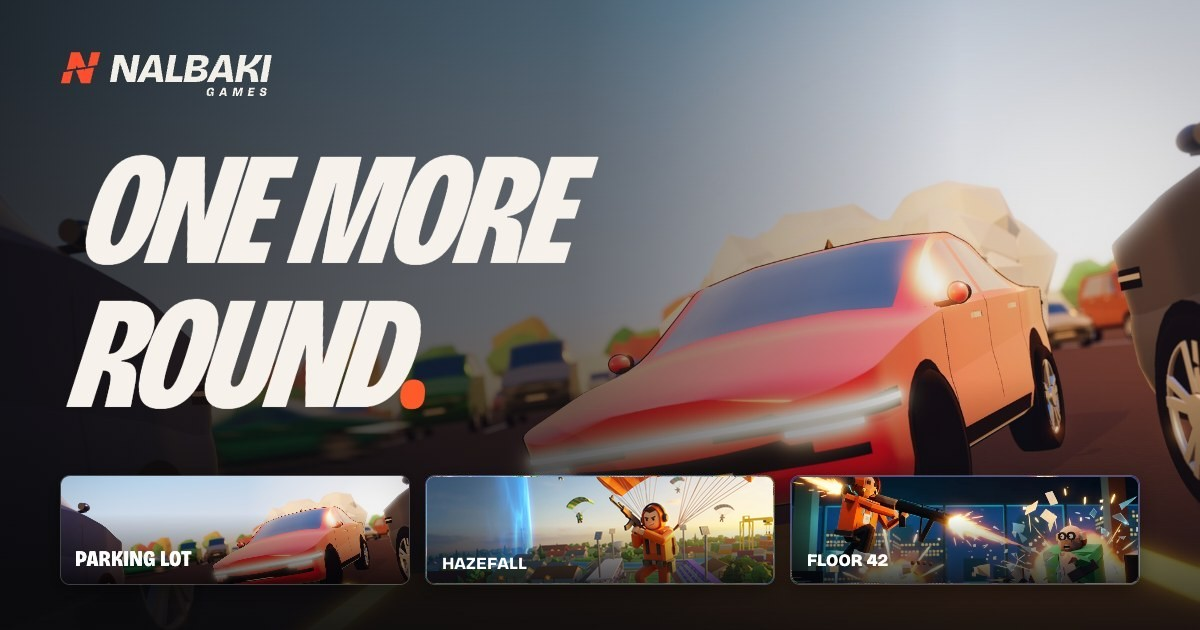
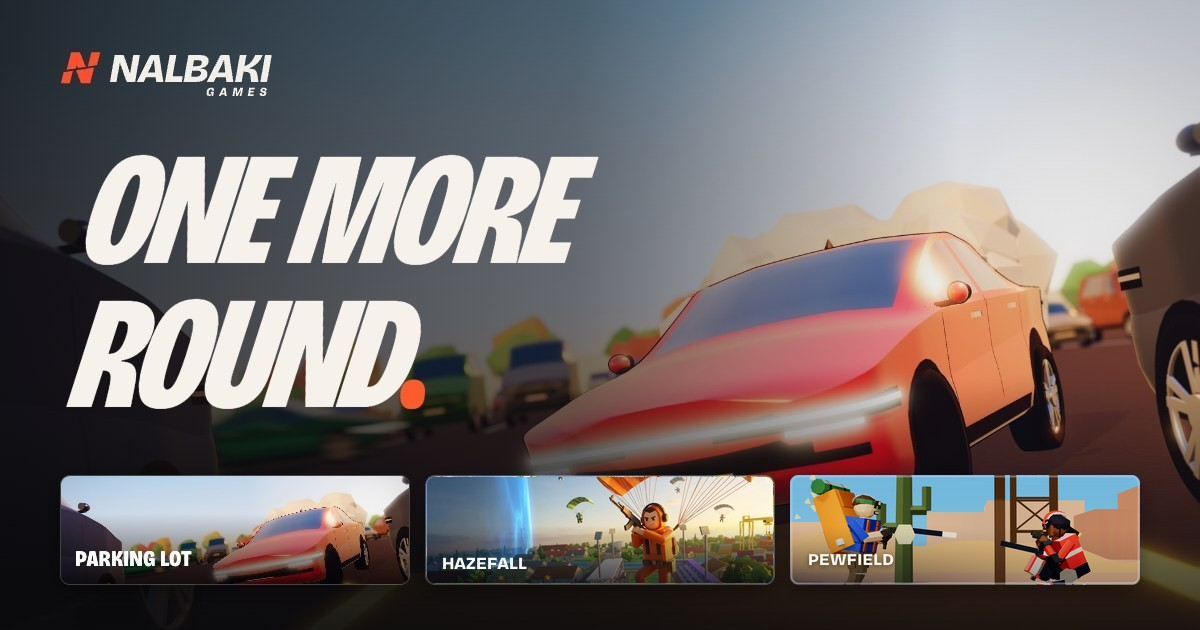
Studio share image: Pewfield tile replaces Floor 42
assets/og.jpg keeps the same layout; the third tile now shows TAVO and
BRIX from the Pewfield key art with a PEWFIELD label. The 11 og:image:alt
lines now read "...Parking Lot, Hazefall and Pewfield" (growth R-A5).

Changed region(s): [[0.6475, 0.754, 0.9558, 0.9349]]

diff --git a/404.html b/404.html
@@ -15,7 +15,7 @@
     <meta property="og:image" content="https://nalbakigames.com/assets/og.jpg" />
     <meta property="og:image:width" content="1200" />
     <meta property="og:image:height" content="630" />
-    <meta property="og:image:alt" content="Nalbaki Games logo over key art from Parking Lot, Hazefall and Floor 42" />
+    <meta property="og:image:alt" content="Nalbaki Games logo over key art from Parking Lot, Hazefall and Pewfield" />
     <meta name="twitter:card" content="summary_large_image" />
     <link rel="icon" href="/favicon.ico" sizes="any" />
     <link rel="icon" href="/assets/favicon-32.png" sizes="32x32" type="image/png" />

diff --git a/about.html b/about.html
@@ -15,7 +15,7 @@
     <meta property="og:image" content="https://nalbakigames.com/assets/og.jpg" />
     <meta property="og:image:width" content="1200" />
     <meta property="og:image:height" content="630" />
-    <meta property="og:image:alt" content="Nalbaki Games logo over key art from Parking Lot, Hazefall and Floor 42" />
+    <meta property="og:image:alt" content="Nalbaki Games logo over key art from Parking Lot, Hazefall and Pewfield" />
     <meta name="twitter:card" content="summary_large_image" />
     <link rel="icon" href="/favicon.ico" sizes="any" />
     <link rel="icon" href="/assets/favicon-32.png" sizes="32x32" type="image/png" />

diff --git a/contact.html b/contact.html
@@ -15,7 +15,7 @@
     <meta property="og:image" content="https://nalbakigames.com/assets/og.jpg" />
     <meta property="og:image:width" content="1200" />
     <meta property="og:image:height" content="630" />
-    <meta property="og:image:alt" content="Nalbaki Games logo over key art from Parking Lot, Hazefall and Floor 42" />
+    <meta property="og:image:alt" content="Nalbaki Games logo over key art from Parking Lot, Hazefall and Pewfield" />
     <meta name="twitter:card" content="summary_large_image" />
     <link rel="icon" href="/favicon.ico" sizes="any" />
     <link rel="icon" href="/assets/favicon-32.png" sizes="32x32" type="image/png" />

diff --git a/games.html b/games.html
@@ -15,7 +15,7 @@
     <meta property="og:image" content="https://nalbakigames.com/assets/og.jpg" />
     <meta property="og:image:width" content="1200" />
     <meta property="og:image:height" content="630" />
-    <meta property="og:image:alt" content="Nalbaki Games logo over key art from Parking Lot, Hazefall and Floor 42" />
+    <meta property="og:image:alt" content="Nalbaki Games logo over key art from Parking Lot, Hazefall and Pewfield" />
     <meta name="twitter:card" content="summary_large_image" />
     <link rel="icon" href="/favicon.ico" sizes="any" />
     <link rel="icon" href="/assets/favicon-32.png" sizes="32x32" type="image/png" />

diff --git a/index.html b/index.html
@@ -15,7 +15,7 @@
     <meta property="og:image" content="https://nalbakigames.com/assets/og.jpg" />
     <meta property="og:image:width" content="1200" />
     <meta property="og:image:height" content="630" />
-    <meta property="og:image:alt" content="Nalbaki Games logo over key art from Parking Lot, Hazefall and Floor 42" />
+    <meta property="og:image:alt" content="Nalbaki Games logo over key art from Parking Lot, Hazefall and Pewfield" />
     <meta name="twitter:card" content="summary_large_image" />
     <link rel="icon" href="/favicon.ico" sizes="any" />
     <link rel="icon" href="/assets/favicon-32.png" sizes="32x32" type="image/png" />

diff --git a/playables.html b/playables.html
@@ -15,7 +15,7 @@
     <meta property="og:image" content="https://nalbakigames.com/assets/og.jpg" />
     <meta property="og:image:width" content="1200" />
     <meta property="og:image:height" content="630" />
-    <meta property="og:image:alt" content="Nalbaki Games logo over key art from Parking Lot, Hazefall and Floor 42" />
+    <meta property="og:image:alt" content="Nalbaki Games logo over key art from Parking Lot, Hazefall and Pewfield" />
     <meta name="twitter:card" content="summary_large_image" />
     <link rel="icon" href="/favicon.ico" sizes="any" />
     <link rel="icon" href="/assets/favicon-32.png" sizes="32x32" type="image/png" />

diff --git a/press.html b/press.html
@@ -15,7 +15,7 @@
     <meta property="og:image" content="https://nalbakigames.com/assets/og.jpg" />
     <meta property="og:image:width" content="1200" />
     <meta property="og:image:height" content="630" />
-    <meta property="og:image:alt" content="Nalbaki Games logo over key art from Parking Lot, Hazefall and Floor 42" />
+    <meta property="og:image:alt" content="Nalbaki Games logo over key art from Parking Lot, Hazefall and Pewfield" />
     <meta name="twitter:card" content="summary_large_image" />
     <link rel="icon" href="/favicon.ico" sizes="any" />
     <link rel="icon" href="/assets/favicon-32.png" sizes="32x32" type="image/png" />

diff --git a/privacy.html b/privacy.html
@@ -15,7 +15,7 @@
     <meta property="og:image" content="https://nalbakigames.com/assets/og.jpg" />
     <meta property="og:image:width" content="1200" />
     <meta property="og:image:height" content="630" />
-    <meta property="og:image:alt" content="Nalbaki Games logo over key art from Parking Lot, Hazefall and Floor 42" />
+    <meta property="og:image:alt" content="Nalbaki Games logo over key art from Parking Lot, Hazefall and Pewfield" />
     <meta name="twitter:card" content="summary_large_image" />
     <link rel="icon" href="/favicon.ico" sizes="any" />
     <link rel="icon" href="/assets/favicon-32.png" sizes="32x32" type="image/png" />

diff --git a/services.html b/services.html
@@ -15,7 +15,7 @@
     <meta property="og:image" content="https://nalbakigames.com/assets/og.jpg" />
     <meta property="og:image:width" content="1200" />
     <meta property="og:image:height" content="630" />
-    <meta property="og:image:alt" content="Nalbaki Games logo over key art from Parking Lot, Hazefall and Floor 42" />
+    <meta property="og:image:alt" content="Nalbaki Games logo over key art from Parking Lot, Hazefall and Pewfield" />
     <meta name="twitter:card" content="summary_large_image" />
     <link rel="icon" href="/favicon.ico" sizes="any" />
     <link rel="icon" href="/assets/favicon-32.png" sizes="32x32" type="image/png" />

diff --git a/support.html b/support.html
@@ -15,7 +15,7 @@
     <meta property="og:image" content="https://nalbakigames.com/assets/og.jpg" />
     <meta property="og:image:width" content="1200" />
     <meta property="og:image:height" content="630" />
-    <meta property="og:image:alt" content="Nalbaki Games logo over key art from Parking Lot, Hazefall and Floor 42" />
+    <meta property="og:image:alt" content="Nalbaki Games logo over key art from Parking Lot, Hazefall and Pewfield" />
     <meta name="twitter:card" content="summary_large_image" />
     <link rel="icon" href="/favicon.ico" sizes="any" />
     <link rel="icon" href="/assets/favicon-32.png" sizes="32x32" type="image/png" />

diff --git a/work.html b/work.html
@@ -15,7 +15,7 @@
     <meta property="og:image" content="https://nalbakigames.com/assets/og.jpg" />
     <meta property="og:image:width" content="1200" />
     <meta property="og:image:height" content="630" />
-    <meta property="og:image:alt" content="Nalbaki Games logo over key art from Parking Lot, Hazefall and Floor 42" />
+    <meta property="og:image:alt" content="Nalbaki Games logo over key art from Parking Lot, Hazefall and Pewfield" />
     <meta name="twitter:card" content="summary_large_image" />
     <link rel="icon" href="/favicon.ico" sizes="any" />
     <link rel="icon" href="/assets/favicon-32.png" sizes="32x32" type="image/png" />
